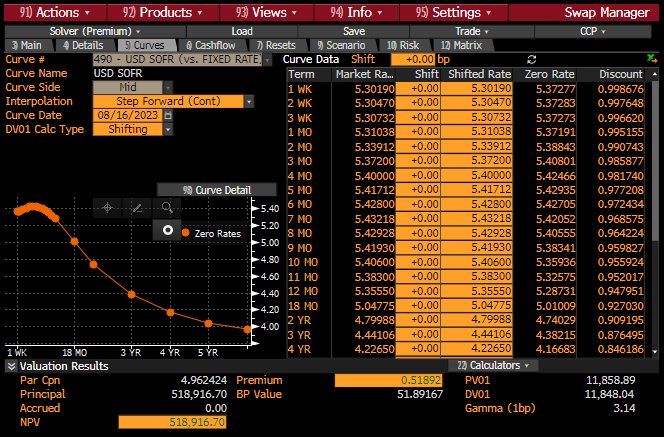
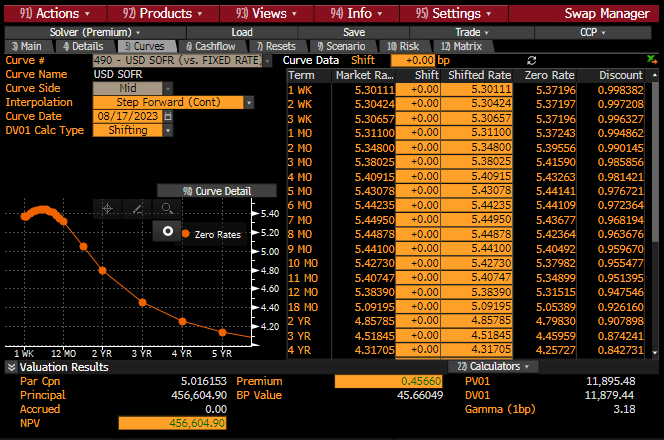
DOC: add SWPM cookbook

diff --git a/docs/source/z_swpm.rst b/docs/source/z_swpm.rst
@@ -1,4 +1,4 @@
-.. _swpm-doc:
+.. _cook-swpm-doc:
 
 .. ipython:: python
    :suppress:
@@ -10,33 +10,29 @@
    import numpy as np
    from pandas import DataFrame
 
-***********
-Example
-***********
+Replicating a SOFR Curve & Swap from Bloomberg's SWPM
+******************************************************
 
-Replicating a SOFR Curve from Bloomberg's SWPM
-**********************************************
-
-At a point in time on Wed 16th Aug 2023 loading the SWPM function in Bloomberg
+At a point in time on Thu 17th Aug 2023 loading the SWPM function in Bloomberg
 presented the following default SOFR curve data:
 
 .. image:: _static/sofr_swpm_1.PNG
   :alt: SWPM SOFR Curve
 
-We can replicate this data in a table as follows:
+We can replicate the input data for the :class:`~rateslib.curves.Curve` in a table as follows:
 
 .. ipython:: python
 
    data = DataFrame({
        "Term": ["1W", "2W", "3W", "1M", "2M", "3M", "4M", "5M", "6M", "7M", "8M", "9M", "10M", "11M", "12M", "18M", "2Y", "3Y", "4Y"],
-       "Rate": [5.30190, 5.30470, 5.30732, 5.31038, 5.33912, 5.37200, 5.40000, 5.41712, 5.42800, 5.43218, 5.42928, 5.41930, 5.40600, 5.38300, 5.35550, 5.04775, 4.79988, 4.44106, 4.22650],
+       "Rate": [5.30111, 5.30424, 5.30657, 5.31100, 5.34800, 5.38025, 5.40915, 5.43078, 5.44235, 5.44950, 5.44878, 5.44100, 5.42730, 5.40747, 5.3839, 5.09195, 4.85785, 4.51845, 4.31705],
    })
-   data["Termination"] = [add_tenor(dt(2023, 8, 18), _, "F", "nyc") for _ in data["Term"]]
+   data["Termination"] = [add_tenor(dt(2023, 8, 21), _, "F", "nyc") for _ in data["Term"]]
    data
 
-Bloomberg defaults to a "Step Forward (cont)" interpolation mode, this is effectively the
-same as "log_linear" in *rateslib's* formulation for *Curves*. We will configure DFs to be on
-the termination date of the swaps:
+Bloomberg defaults to a "Step Forward (cont)" ``interpolation`` mode, this is effectively the
+same as "log_linear" in *rateslib's* formulation for *Curves*. We will configure DF
+``nodes`` dates to be on the termination date of the swaps:
 
 .. ipython:: python
 
@@ -47,29 +43,68 @@ the termination date of the swaps:
        modifier="MF",
        interpolation="log_linear",
        nodes={
-           **{dt(2023, 8, 16): 1.0},  # <- this is today's DF,
+           **{dt(2023, 8, 17): 1.0},  # <- this is today's DF,
            **{_: 1.0 for _ in data["Termination"]},
        }
    )
 
-Now we will calibrate the curve to the given swap market prices
+Now we will calibrate the curve to the given swap market prices, using a global
+:class:`~rateslib.solver.Solver`, passing in the calibrating instruments and rates.
 
 .. ipython:: python
 
    sofr_args = dict(
-       effective=dt(2023, 8, 18),
+       effective=dt(2023, 8, 21),
        frequency="A",
        calendar="nyc",
+       convention="act360",
+       currency="usd",
        curves="sofr",
+       payment_lag=2,
    )
    solver = Solver(
        curves=[sofr],
-       instruments=[
-           IRS(termination=_, **sofr_args) for _ in data["Termination"]
-       ],
+       instruments=[IRS(termination=_, **sofr_args) for _ in data["Termination"]],
        s=data["Rate"],
        instrument_labels=data["Term"],
        id="us_rates",
    )
    data["DF"] = [float(sofr[_]) for _ in data["Termination"]]
    data
+
+Notice that the DFs are the same as those in SWPM (at least to a visible 1e-6 tolerance).
+
+Next we will create a swap in SWPM and also create the same swap in *rateslib*.
+The metrics that SWPM and *rateslib* generate for *npv*, *delta* (DV01), *gamma* and
+*analytic delta* (PV01) are the same to within a very small tolerance.
+
+.. image:: _static/sofr_swpm_2.PNG
+  :alt: SWPM Swap Metrics
+
+.. ipython:: python
+
+   irs = IRS(
+       effective=dt(2023, 11, 21),
+       termination=dt(2025, 2, 21),
+       frequency="A",
+       calendar="nyc",
+       convention="act360",
+       notional=-100e6,
+       payment_lag=2,
+       fixed_rate=5.40,
+       curves="sofr"
+   )
+   irs.npv(solver=solver)
+   irs.delta(solver=solver).sum()
+   irs.gamma(solver=solver).sum().sum()
+   irs.analytic_delta(curve=sofr)
+
+Finally we can double check the *cashflows* and *cashflows_table* of the swap.
+
+.. image:: _static/sofr_swpm_3.PNG
+  :alt: SWPM Swap Cashflows
+
+.. ipython:: python
+
+   irs.cashflows_table(solver=solver)
+   irs.cashflows(solver=solver)

diff --git a/docs/source/i_guide.rst b/docs/source/i_guide.rst
@@ -62,15 +62,8 @@ But this is only the the most basic functionality *rateslib* offers. Many other 
 will be explained in subsequent sections.
 
 If instead of this trivial, minimalist example you would like to see a real world
-example :ref:`replicating a Bloomberg SWPM function SOFR curve<swpm-doc>` please click the
-link.
-
-.. toctree::
-    :titlesonly:
-    :hidden:
-
-    z_swpm.rst
-
+example :ref:`replicating a Bloomberg SWPM function SOFR curve<cook-swpm-doc>` please
+click the link.
 
 Reading the Guide
 ==================

diff --git a/docs/source/i_api.rst b/docs/source/i_api.rst
@@ -242,3 +242,11 @@ Solver
    :skip: Series
    :skip: CompositeCurve
    :skip: ProxyCurve
+
+Cookbook
+--------
+
+.. toctree::
+    :titlesonly:
+
+    z_swpm.rst
